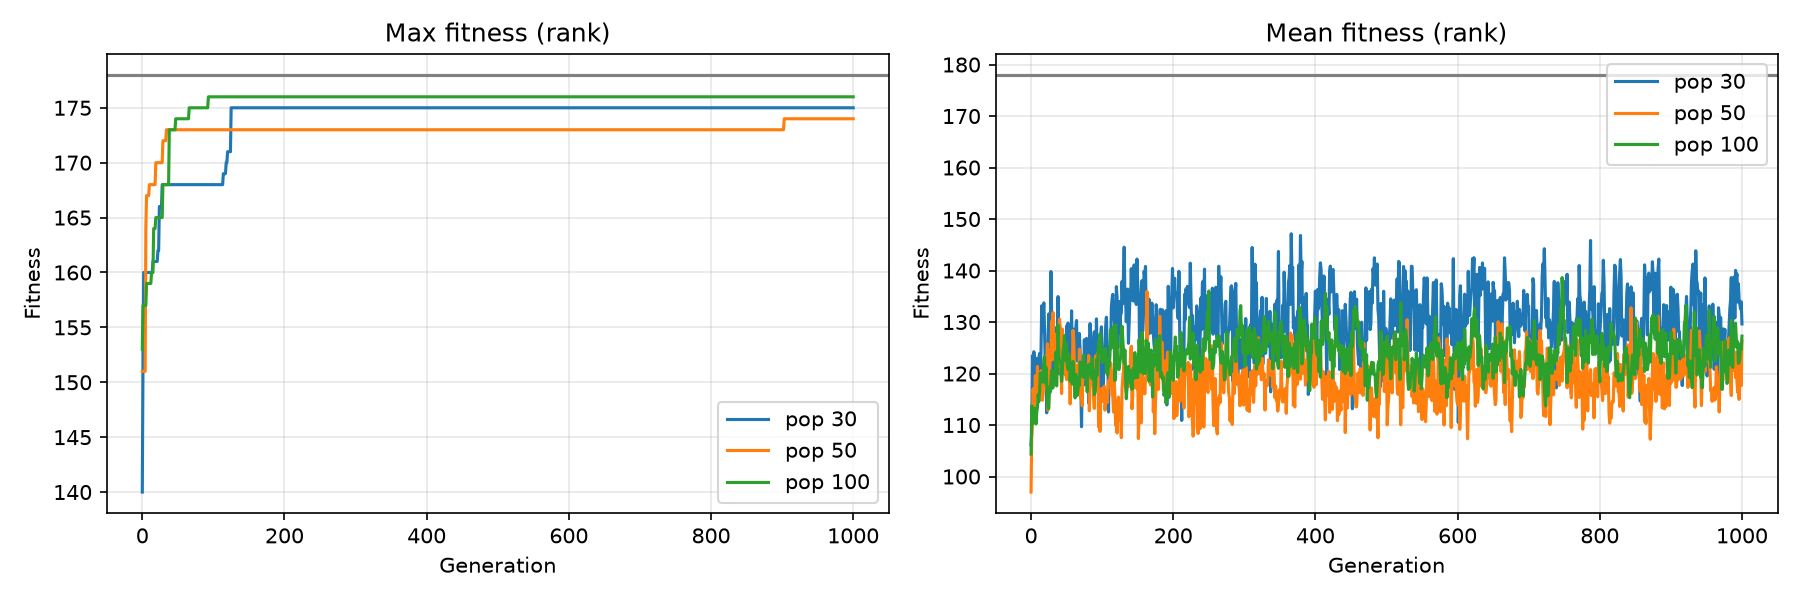
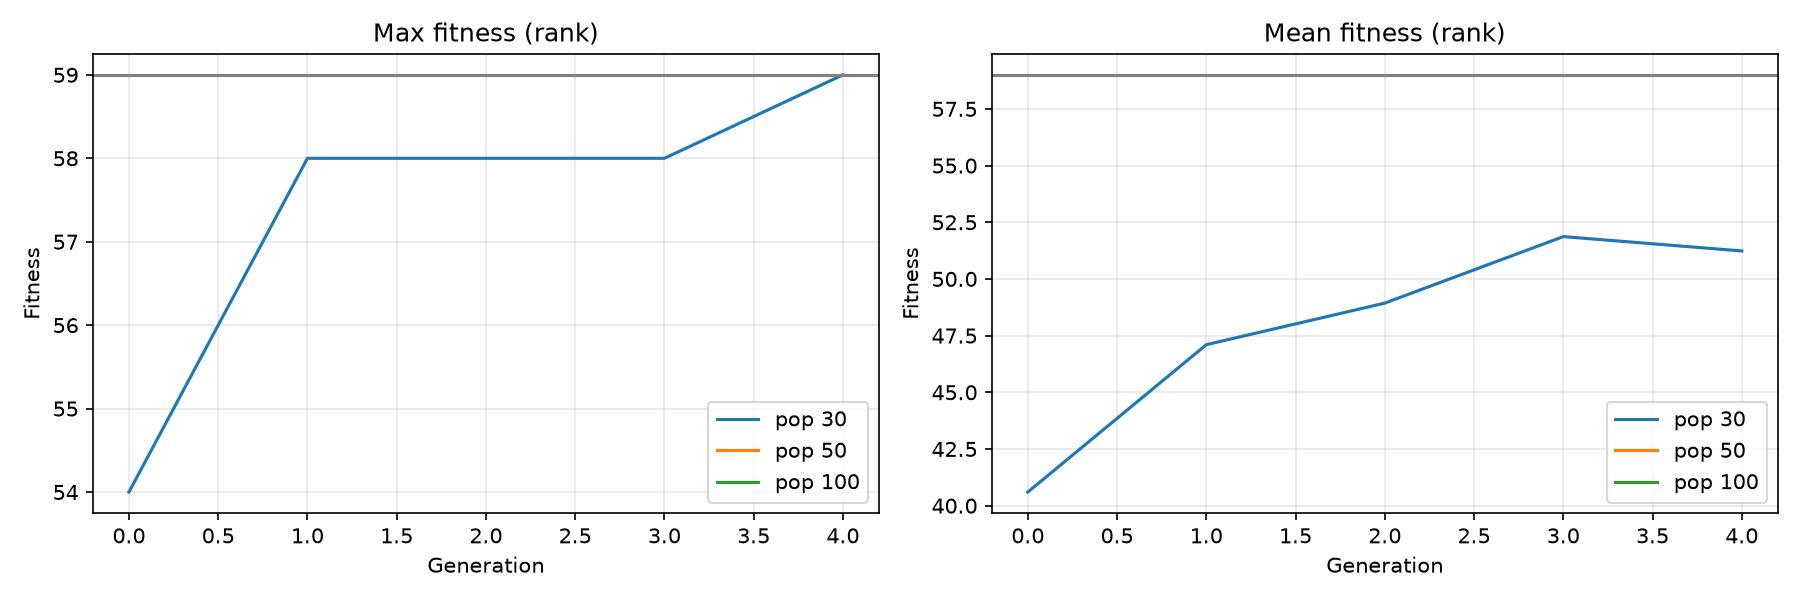
''

diff --git a/game.py b/game.py
@@ -4,6 +4,7 @@ from fitnessVisual import plotFitness
 from fitnessVisual import plotComparison
 
 SELECTION_METHODS = ["tournament", "rank"]
+MUTATION_METHODS = ["random", "multiplicative"]
 POPULATIONS= [30, 50, 100]
 
 
@@ -11,14 +12,22 @@ def startGame():
 
     matrixWidth = int(input("Enter garden width: "))
     matrixHeight = int(input("Enter garden height: "))
-    numberOfStones = int (input("Enter number of stones: "))
     selectionNumber = int(input("Enter selection number 0 - tournament, 1 - rank: "))
+    mutationNumber = int(input("Enter mutation number 0 - random, 1 - multiplicative: "))
+    numberOfStones = int (input("Enter number of stones: "))
 
     if selectionNumber != 0 and selectionNumber != 1:
         while True:
             print("Invalid selection number. try again")
             selectionNumber = int(input("Enter selection number 0 - tournament, 1 - rank: "))
             if selectionNumber == 0 or selectionNumber == 1:
+                break
+
+    if mutationNumber != 0 and mutationNumber != 1:
+        while True:
+            print("Invalid mutation number. try again")
+            mutationNumber = int(input("Enter mutation number 0 - random, 1 - multiplicative: "))
+            if mutationNumber == 0 or mutationNumber == 1:
                 break
 
 
@@ -64,6 +73,7 @@ def startGame():
     maxNumberOfGenes = matrixPerimeter // 2 + numberOfStones
     numberOfGenes =  max(3 , int(0.75 * maxNumberOfGenes))
     selection = SELECTION_METHODS[selectionNumber]
+    mutation = MUTATION_METHODS[mutationNumber]
 
 
     histories = {}
@@ -77,7 +87,7 @@ def startGame():
            history = ([min(fitnessValues)], [statistics.mean(fitnessValues)],[max(fitnessValues)])
 
        else:
-           bestChromosome, fitnessValues, gardens, history = geneticAlgorithm(population, fitnessValues, maxFitness, selection, matrixPerimeter, gardenMatrix, matrixWidth, matrixHeight, gardens)
+           bestChromosome, fitnessValues, gardens, history = geneticAlgorithm(population, fitnessValues, maxFitness, selection, matrixPerimeter, gardenMatrix, matrixWidth, matrixHeight, gardens, mutation)
            bestFitness = max(fitnessValues)
 
 
@@ -85,8 +95,8 @@ def startGame():
        histories[populationSize] = history
        gardensFinal[bestFitness] = gardens[fitnessValues.index(bestFitness)]
 
-    plotFitness(histories, maxFitness, selection, saveTo=f"fitness-{selection}.png")
-    plotComparison(histories, maxFitness, selection, saveTo=f"comparison-{selection}.png")
+    plotFitness(histories, maxFitness, selection, mutation, saveTo=f"fitness-{selection}-{mutation}.png")
+    plotComparison(histories, maxFitness, selection, mutation, saveTo=f"comparison-{selection}-{mutation}.png")
 
 
     maxKey = max(gardensFinal)
@@ -95,7 +105,7 @@ def startGame():
 
 
 
-def geneticAlgorithm(population, fitness, maxFitness, selection, perimeter, gardenMatrix, width ,height, gardens):
+def geneticAlgorithm(population, fitness, maxFitness, selection, perimeter, gardenMatrix, width ,height, gardens, mutation):
     generation = 0
     maxArr , meanArr, minArr = [], [], []
 
@@ -116,7 +126,7 @@ def geneticAlgorithm(population, fitness, maxFitness, selection, perimeter, gard
             selectedPopulation = selectRank(fitness, population)
 
         crossedPopulation = crossover(selectedPopulation)
-        mutation(crossedPopulation, perimeter)
+        mutationFn(crossedPopulation, perimeter, mutation)
 
         population = elites + crossedPopulation[:len(population) - 2]
         fitness, gardens = performRake(gardenMatrix, population, width , height, perimeter)
@@ -129,12 +139,23 @@ def geneticAlgorithm(population, fitness, maxFitness, selection, perimeter, gard
 
 
 
-def mutation(population, perimeter):
+def mutationFn(population, perimeter, mutation):
     mutationProb = 0.1
     for chromosome in population:
         for i in range(len(chromosome)):
             if random.random() < mutationProb:
-                chromosome[i] = random.randint(0, perimeter - 1)
+                if mutation == "random":
+                    chromosome[i] = random.randint(0, perimeter - 1)
+                else:
+                    if chromosome[i] == 0:
+                        chromosome[i] = random.randint(1, 3)
+                    else:
+                        multiplier = random.uniform(0.7, 1.3)
+                        new = round(chromosome[i] * multiplier)
+                        if new == chromosome[i]:
+                            new = chromosome[i] + 1
+
+                        chromosome[i] = min(new, perimeter - 1)
 
 
 

diff --git a/fitnessVisual.py b/fitnessVisual.py
@@ -1,7 +1,7 @@
 import matplotlib.pyplot as plt
 
 
-def plotFitness(histories, maxFitness, selection, saveTo=None):
+def plotFitness(histories, maxFitness, selection, mutation,  saveTo=None):
     n = len(histories)
     fig, axes = plt.subplots(n, 1, figsize=(9, 3.5 * n), squeeze=False)
 
@@ -11,7 +11,7 @@ def plotFitness(histories, maxFitness, selection, saveTo=None):
         ax.plot(gens, meanArr, label="mean")
         ax.plot(gens, minArr, label="min", alpha=0.5)
         ax.axhline(maxFitness, linestyle="-", color="gray", label="optimum")
-        ax.set_title(f"Population {popSize} ({selection})")
+        ax.set_title(f"Population {popSize} ({selection}), ({mutation})")
         ax.set_xlabel("Generation")
         ax.set_ylabel("Fitness")
         ax.legend()
@@ -22,7 +22,7 @@ def plotFitness(histories, maxFitness, selection, saveTo=None):
         fig.savefig(saveTo, dpi=150)
 
 
-def plotComparison(histories, maxFitness, selection, saveTo=None):
+def plotComparison(histories, maxFitness, selection, mutation, saveTo=None):
     fig, (axMax, axMean) = plt.subplots(1, 2, figsize=(12, 4))
 
     for popSize, (minArr, meanArr, maxArr) in histories.items():
@@ -31,7 +31,7 @@ def plotComparison(histories, maxFitness, selection, saveTo=None):
 
     for ax, title in ((axMax, "Max fitness"), (axMean, "Mean fitness")):
         ax.axhline(maxFitness, linestyle="-", color="gray")
-        ax.set_title(f"{title} ({selection})")
+        ax.set_title(f"{title} ({selection}) ({mutation})")
         ax.set_xlabel("Generation")
         ax.set_ylabel("Fitness")
         ax.legend()
